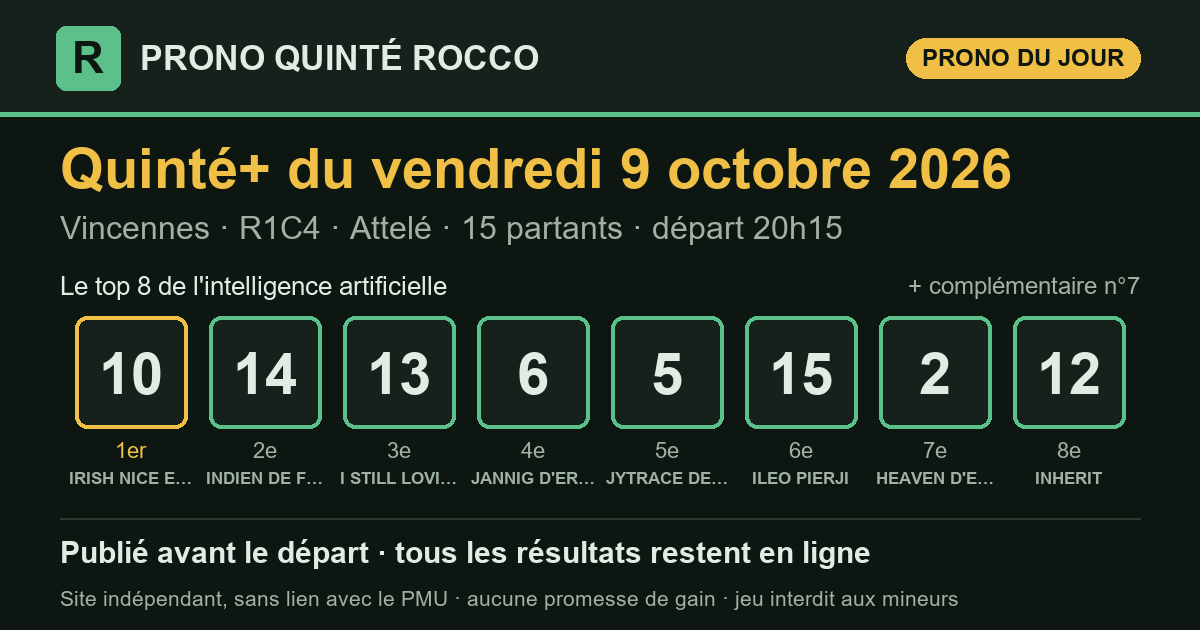
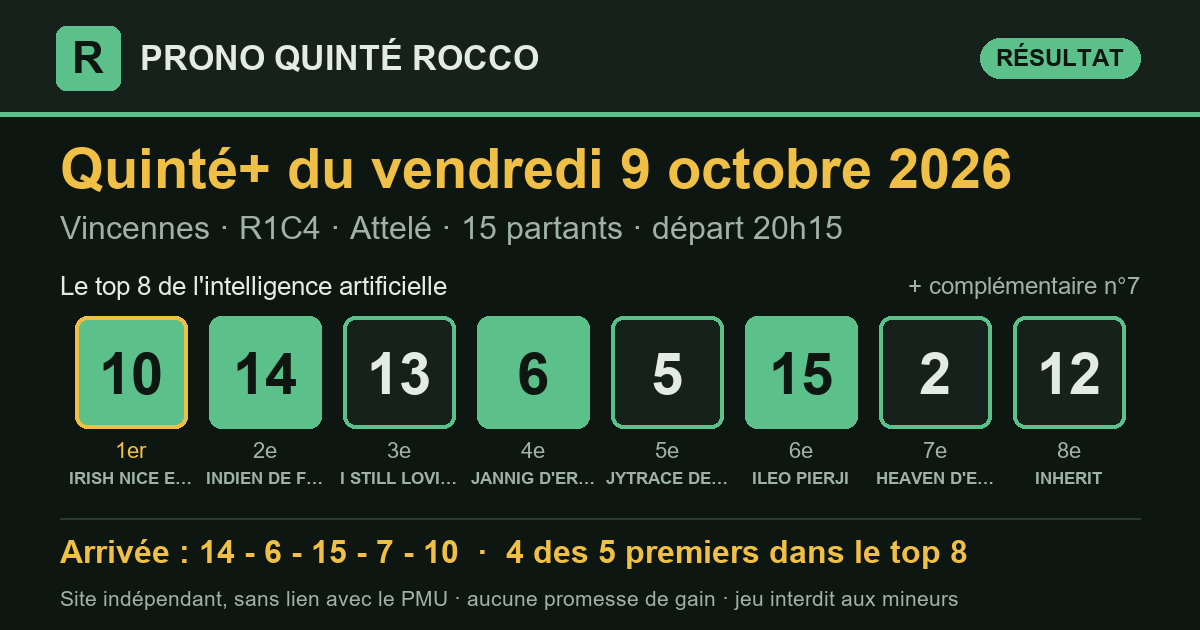
Prono Quinté+ 2026-10-09 Vincennes R1C4 — publié le 09/10/2026 20:30 (heure de Paris)

diff --git a/index.html b/index.html
@@ -13,7 +13,7 @@
 <meta property="og:title" content="Pronostic Quinté+ du vendredi 9 octobre 2026 — Prono Quinté Rocco">
 <meta property="og:description" content="Le pronostic du Quinté+ par intelligence artificielle, publié avant le départ, avec tous les résultats et le rendement réel.">
 <meta property="og:url" content="https://roccogp971.github.io/prono-quinte-rocco/">
-<meta property="og:image" content="https://roccogp971.github.io/prono-quinte-rocco/partage/2026-10-09.png?v=b8dcbbd7">
+<meta property="og:image" content="https://roccogp971.github.io/prono-quinte-rocco/partage/2026-10-09.png?v=a6659198">
 <meta property="og:image:type" content="image/png">
 <meta property="og:image:width" content="1200">
 <meta property="og:image:height" content="630">
@@ -28,15 +28,15 @@
 </header>
 <main>
 <section class="une" aria-labelledby="t-jour">
-  <p class="surtitre">Quinté+ du jour</p>
+  <p class="surtitre">Dernier Quinté+</p>
   <h1 id="t-jour">Le prono du Quinté+, résultats compris</h1>
   <p class="chapo">Chaque matin, une intelligence artificielle classe les partants du
   Quinté+. Le classement est publié avant le départ, puis comparé à l'arrivée
   officielle. Tous les résultats restent en ligne, les bons comme les mauvais.</p>
   <article class="carte-course">
-  <div class="tete"><h2>Vendredi 9 octobre 2026</h2><span class="etat attente">arrivée en attente</span></div>
+  <div class="tete"><h2>Vendredi 9 octobre 2026</h2><span class="etat place">4 des 5 premiers dans le top 8</span></div>
   <p class="meta">Vincennes · <strong>R1C4</strong> · Attelé · 15 partants · lisibilité <span class="note" aria-label="note 3 sur 5"><i class="on"></i><i class="on"></i><i class="on"></i><i class=""></i><i class=""></i></span> 3/5</p>
-  <ol class="partants" aria-label="Classement du prono"><li><span class="rang">1<sup>er</sup></span><span class="tapis ">10</span><span class="nom">IRISH NICE ELGE</span></li><li><span class="rang">2<sup>e</sup></span><span class="tapis ">14</span><span class="nom">INDIEN DE FONTAINE</span></li><li><span class="rang">3<sup>e</sup></span><span class="tapis ">13</span><span class="nom">I STILL LOVING YOU</span></li><li><span class="rang">4<sup>e</sup></span><span class="tapis ">6</span><span class="nom">JANNIG D&#x27;EREVAN</span></li><li><span class="rang">5<sup>e</sup></span><span class="tapis ">5</span><span class="nom">JYTRACE DE HOUELLE</span></li><li><span class="rang">6<sup>e</sup></span><span class="tapis ">15</span><span class="nom">ILEO PIERJI</span></li><li><span class="rang">7<sup>e</sup></span><span class="tapis ">2</span><span class="nom">HEAVEN D&#x27;ECAJEUL</span></li><li><span class="rang">8<sup>e</sup></span><span class="tapis ">12</span><span class="nom">INHERIT</span></li><li><span class="rang">compl.</span><span class="tapis creux">7</span><span class="nom">IZIJAL</span></li></ol>
+  <ol class="partants" aria-label="Classement du prono"><li><span class="rang">1<sup>er</sup></span><span class="tapis plein">10</span><span class="nom">IRISH NICE ELGE</span></li><li><span class="rang">2<sup>e</sup></span><span class="tapis plein">14</span><span class="nom">INDIEN DE FONTAINE</span></li><li><span class="rang">3<sup>e</sup></span><span class="tapis ">13</span><span class="nom">I STILL LOVING YOU</span></li><li><span class="rang">4<sup>e</sup></span><span class="tapis plein">6</span><span class="nom">JANNIG D&#x27;EREVAN</span></li><li><span class="rang">5<sup>e</sup></span><span class="tapis ">5</span><span class="nom">JYTRACE DE HOUELLE</span></li><li><span class="rang">6<sup>e</sup></span><span class="tapis plein">15</span><span class="nom">ILEO PIERJI</span></li><li><span class="rang">7<sup>e</sup></span><span class="tapis ">2</span><span class="nom">HEAVEN D&#x27;ECAJEUL</span></li><li><span class="rang">8<sup>e</sup></span><span class="tapis ">12</span><span class="nom">INHERIT</span></li><li><span class="rang">compl.</span><span class="tapis creux plein">7</span><span class="nom">IZIJAL</span></li></ol>
   <div class="pied-carte"><span>Analysé le 09/10 à 10:56 · en ligne le 09/10 à 10:59 · départ à 20:15 (heure de Paris)</span><span><a href="quinte/2026-10-09.html">Détail de la course</a></span></div>
 </article>
   <div class="legende"><span><span class="tapis plein petit">4</span> numéro dans les 5 premiers</span>
@@ -53,7 +53,7 @@
 </section>
 <section class="bilan" aria-labelledby="t-bilan">
   <h2 id="t-bilan">Le bilan depuis le 8 septembre 2026</h2>
-  <div class="tableau chiffres"><div class="case"><span class="gros ">75 %</span><span class="lib">des arrivants trouvés dans le top 8</span><span class="ref">un top 8 tiré au hasard : 52 %</span></div><div class="case"><span class="gros ">87 %</span><span class="lib">des gagnants présents dans le top 8</span><span class="ref"></span></div><div class="case"><span class="gros ">57 %</span><span class="lib">1er du prono placé</span><span class="ref">sur 30 Quintés</span></div><div class="case"><span class="gros ">1,03 €</span><span class="lib">rendus pour 1 € joué placé sur le 1er</span><span class="ref">rapports officiels PMU</span></div><div class="case"><span class="gros perte">0,46 €</span><span class="lib">rendus pour 1 € joué en Quinté+ combiné top 8</span><span class="ref">56 combinaisons, rapports PMU.fr, sur 30 Quintés</span></div></div>
+  <div class="tableau chiffres"><div class="case"><span class="gros ">75 %</span><span class="lib">des arrivants trouvés dans le top 8</span><span class="ref">un top 8 tiré au hasard : 52 %</span></div><div class="case"><span class="gros ">87 %</span><span class="lib">des gagnants présents dans le top 8</span><span class="ref"></span></div><div class="case"><span class="gros ">57 %</span><span class="lib">1er du prono placé</span><span class="ref">sur 30 Quintés</span></div><div class="case"><span class="gros ">1,03 €</span><span class="lib">rendus pour 1 € joué placé sur le 1er</span><span class="ref">rapports officiels PMU</span></div><div class="case"><span class="gros perte">0,45 €</span><span class="lib">rendus pour 1 € joué en Quinté+ combiné top 8</span><span class="ref">56 combinaisons, rapports PMU.fr, sur 31 Quintés</span></div></div>
   <p class="avertissement">Moins de 1 € rendu pour 1 € joué : suivre ce prono à la lettre fait <strong>perdre de l'argent</strong> sur cette période. Il sert à analyser une course, pas à promettre un gain.</p>
 </section>
 </main>

diff --git a/partants.html b/partants.html
@@ -29,67 +29,67 @@
     <p class="fiche-date">Vendredi 9 octobre 2026</p>
     <div class="fiche-rc"><span class="pastille" title="Réunion 1">R1</span><span class="pastille" title="Course 4">C4</span><span class="fiche-nom">Prix Hera</span></div>
     <p class="meta">Vincennes · Trot_attele · 2 850 m · 15 partants</p>
-    <p class="fiche-depart">Départ <b>20:15</b> <span>heure de Paris</span></p>
+    <p class="fiche-depart">Départ <b>20:17</b> <span>heure de Paris</span></p>
   </div>
   <p class="surtitre">Les pronostics ailleurs sur le web</p>
-  <div class="liens"><a class="lien-ext" href="https://www.turfoo.fr/programmes-courses/261009/reunion1-vincennes/course4-prix-hera/pronostics-presse/" rel="noopener" target="_blank"><b>Les pronostics de la presse →</b><span>sur Turfoo (site extérieur)</span></a><a class="lien-ext" href="https://www.geny.com/programme/2026-10-09" rel="noopener" target="_blank"><b>Partants et pronostics →</b><span>programme du jour sur Geny (site extérieur)</span></a></div>
+  <div class="liens"><a class="lien-ext" href="https://www.turfoo.fr/programmes-courses/261009/" rel="noopener" target="_blank"><b>Les pronostics de la presse →</b><span>sur Turfoo (site extérieur)</span></a><a class="lien-ext" href="https://www.geny.com/programme/2026-10-09" rel="noopener" target="_blank"><b>Partants et pronostics →</b><span>programme du jour sur Geny (site extérieur)</span></a></div>
   <div class="liste-boite"><table class="liste-partants">
     <thead><tr><th>N°</th><th>Cheval</th><th class="cote"><span class="long">Cote du matin</span><span class="court">Cote</span></th>
     <th class="ia"><span class="long">Prono IA</span><span class="court">IA</span></th></tr></thead>
     <tbody><tr>
   <td><span class="tapis petit">1</span></td>
   <td><span class="cheval">IGLOO DE BEAULIEU</span><span class="sous">J. CONDETTE · J. CONDETTE</span></td>
-  <td class="cote num">74,0</td>
+  <td class="cote num">105,0</td>
   <td class="ia">—</td>
 </tr><tr>
   <td><span class="tapis petit">2</span></td>
   <td><span class="cheval">HEAVEN D&#x27;ECAJEUL</span><span class="sous">G. GELORMINI · J.L. DERSOIR</span></td>
-  <td class="cote num">12,0</td>
+  <td class="cote num">14,0</td>
   <td class="ia"><span class="etat place">7<sup>e</sup></span></td>
 </tr><tr>
   <td><span class="tapis petit">3</span></td>
   <td><span class="cheval">HORACIO DE CERISY</span><span class="sous">A. GENDROT · P. PICOT</span></td>
-  <td class="cote num">52,0</td>
+  <td class="cote num">68,0</td>
   <td class="ia">—</td>
 </tr><tr>
   <td><span class="tapis petit">4</span></td>
   <td><span class="cheval">HISTORY MAJYC</span><span class="sous">F. TABESSE · F. TABESSE</span></td>
-  <td class="cote num">83,0</td>
+  <td class="cote num">96,0</td>
   <td class="ia">—</td>
 </tr><tr>
   <td><span class="tapis petit">5</span></td>
   <td><span class="cheval">JYTRACE DE HOUELLE</span><span class="sous">M. MOTTIER · K. LEBLANC</span></td>
-  <td class="cote num">8,5</td>
+  <td class="cote num">7,4</td>
   <td class="ia"><span class="etat place">5<sup>e</sup></span></td>
 </tr><tr>
   <td><span class="tapis petit">6</span></td>
   <td><span class="cheval">JANNIG D&#x27;EREVAN</span><span class="sous">D. BONNE · Antoine TRIHOLLET</span></td>
-  <td class="cote num">9,8</td>
+  <td class="cote num">9,1</td>
   <td class="ia"><span class="etat place">4<sup>e</sup></span></td>
 </tr><tr>
   <td><span class="tapis petit">7</span></td>
   <td><span class="cheval">IZIJAL</span><span class="sous">D. THOMAIN · Sté. Ent. Benoît BARASSIN</span></td>
-  <td class="cote num">19,0</td>
+  <td class="cote num">21,0</td>
   <td class="ia"><span class="etat place">compl.</span></td>
 </tr><tr>
   <td><span class="tapis petit">8</span></td>
   <td><span class="cheval">HORIZON DU THAY</span><span class="sous">N.R. BROSSARD · A. BARRE</span></td>
-  <td class="cote num">33,0</td>
+  <td class="cote num">34,0</td>
   <td class="ia">—</td>
 </tr><tr>
   <td><span class="tapis petit">9</span></td>
   <td><span class="cheval">INEDIT DU PAVILLON</span><span class="sous">F. LAGADEUC · Y. HALLAIS</span></td>
-  <td class="cote num">34,0</td>
+  <td class="cote num">40,0</td>
   <td class="ia">—</td>
 </tr><tr>
   <td><span class="tapis petit">10</span></td>
   <td><span class="cheval">IRISH NICE ELGE</span><span class="sous">M. ABRIVARD · Lucka STAEL</span></td>
-  <td class="cote num">4,3</td>
+  <td class="cote num">4,4</td>
   <td class="ia"><span class="etat place">1<sup>er</sup></span></td>
 </tr><tr>
   <td><span class="tapis petit">11</span></td>
   <td><span class="cheval">HOVE PONT VAUTIER</span><span class="sous">A. MERIEL · L. FERRO</span></td>
-  <td class="cote num">85,0</td>
+  <td class="cote num">100,0</td>
   <td class="ia">—</td>
 </tr><tr>
   <td><span class="tapis petit">12</span></td>
@@ -99,22 +99,22 @@
 </tr><tr>
   <td><span class="tapis petit">13</span></td>
   <td><span class="cheval">I STILL LOVING YOU</span><span class="sous">A. ABRIVARD · Sté. Ent. Benoît BARASSIN</span></td>
-  <td class="cote num">6,0</td>
+  <td class="cote num">5,6</td>
   <td class="ia"><span class="etat place">3<sup>e</sup></span></td>
 </tr><tr>
   <td><span class="tapis petit">14</span></td>
   <td><span class="cheval">INDIEN DE FONTAINE</span><span class="sous">E. RAFFIN · P. DANET</span></td>
-  <td class="cote num">6,8</td>
+  <td class="cote num">7,1</td>
   <td class="ia"><span class="etat place">2<sup>e</sup></span></td>
 </tr><tr>
   <td><span class="tapis petit">15</span></td>
   <td><span class="cheval">ILEO PIERJI</span><span class="sous">A. BARRIER · CH.A. MARY</span></td>
-  <td class="cote num">10,0</td>
+  <td class="cote num">9,5</td>
   <td class="ia"><span class="etat place">6<sup>e</sup></span></td>
 </tr></tbody>
   </table></div>
   <p class="meta">Le rang du prono IA est celui publié sur ce site. Sous chaque cheval : driver · entraîneur. Partants et cotes : programme
-  officiel du PMU, lu le 09/10 à 10:59 (heure de Paris). NP = non-partant.</p>
+  officiel du PMU, lu le 09/10 à 20:30 (heure de Paris). NP = non-partant.</p>
 </section>
 </main>
 <footer class="pied">

diff --git a/quinte/2026-10-09.html b/quinte/2026-10-09.html
@@ -13,7 +13,7 @@
 <meta property="og:title" content="Pronostic Quinté+ du vendredi 9 octobre 2026 à Vincennes — Prono Quinté Rocco">
 <meta property="og:description" content="Prono Quinté+ du vendredi 9 octobre 2026 (Vincennes) : top 8, arrivée officielle et rapports PMU.fr.">
 <meta property="og:url" content="https://roccogp971.github.io/prono-quinte-rocco/quinte/2026-10-09.html">
-<meta property="og:image" content="https://roccogp971.github.io/prono-quinte-rocco/partage/2026-10-09.png?v=b8dcbbd7">
+<meta property="og:image" content="https://roccogp971.github.io/prono-quinte-rocco/partage/2026-10-09.png?v=a6659198">
 <meta property="og:image:type" content="image/png">
 <meta property="og:image:width" content="1200">
 <meta property="og:image:height" content="630">
@@ -32,11 +32,19 @@
   <h1>Pronostic Quinté+ du vendredi 9 octobre 2026</h1>
   <p class="chapo">Vincennes · R1C4 · Attelé · 15 partants</p>
   <article class="carte-course">
-  <div class="tete"><h2>Le prono : top 8 et complémentaire</h2><span class="etat attente">arrivée en attente</span></div>
+  <div class="tete"><h2>Le prono : top 8 et complémentaire</h2><span class="etat place">4 des 5 premiers dans le top 8</span></div>
   <p class="meta">Vincennes · <strong>R1C4</strong> · Attelé · 15 partants · lisibilité <span class="note" aria-label="note 3 sur 5"><i class="on"></i><i class="on"></i><i class="on"></i><i class=""></i><i class=""></i></span> 3/5</p>
-  <ol class="partants" aria-label="Classement du prono"><li><span class="rang">1<sup>er</sup></span><span class="tapis ">10</span><span class="nom">IRISH NICE ELGE</span></li><li><span class="rang">2<sup>e</sup></span><span class="tapis ">14</span><span class="nom">INDIEN DE FONTAINE</span></li><li><span class="rang">3<sup>e</sup></span><span class="tapis ">13</span><span class="nom">I STILL LOVING YOU</span></li><li><span class="rang">4<sup>e</sup></span><span class="tapis ">6</span><span class="nom">JANNIG D&#x27;EREVAN</span></li><li><span class="rang">5<sup>e</sup></span><span class="tapis ">5</span><span class="nom">JYTRACE DE HOUELLE</span></li><li><span class="rang">6<sup>e</sup></span><span class="tapis ">15</span><span class="nom">ILEO PIERJI</span></li><li><span class="rang">7<sup>e</sup></span><span class="tapis ">2</span><span class="nom">HEAVEN D&#x27;ECAJEUL</span></li><li><span class="rang">8<sup>e</sup></span><span class="tapis ">12</span><span class="nom">INHERIT</span></li><li><span class="rang">compl.</span><span class="tapis creux">7</span><span class="nom">IZIJAL</span></li></ol>
+  <ol class="partants" aria-label="Classement du prono"><li><span class="rang">1<sup>er</sup></span><span class="tapis plein">10</span><span class="nom">IRISH NICE ELGE</span></li><li><span class="rang">2<sup>e</sup></span><span class="tapis plein">14</span><span class="nom">INDIEN DE FONTAINE</span></li><li><span class="rang">3<sup>e</sup></span><span class="tapis ">13</span><span class="nom">I STILL LOVING YOU</span></li><li><span class="rang">4<sup>e</sup></span><span class="tapis plein">6</span><span class="nom">JANNIG D&#x27;EREVAN</span></li><li><span class="rang">5<sup>e</sup></span><span class="tapis ">5</span><span class="nom">JYTRACE DE HOUELLE</span></li><li><span class="rang">6<sup>e</sup></span><span class="tapis plein">15</span><span class="nom">ILEO PIERJI</span></li><li><span class="rang">7<sup>e</sup></span><span class="tapis ">2</span><span class="nom">HEAVEN D&#x27;ECAJEUL</span></li><li><span class="rang">8<sup>e</sup></span><span class="tapis ">12</span><span class="nom">INHERIT</span></li><li><span class="rang">compl.</span><span class="tapis creux plein">7</span><span class="nom">IZIJAL</span></li></ol>
   <div class="pied-carte"><span>Analysé le 09/10 à 10:56 · en ligne le 09/10 à 10:59 · départ à 20:15 (heure de Paris)</span><span></span></div>
 </article>
+<section class="carte-course" aria-labelledby="t-arr">
+  <div class="tete"><h2 id="t-arr">Arrivée officielle</h2></div>
+  <div class="rangee"><span class="tapis plein" title="1er">14</span><span class="tapis plein" title="2e">6</span><span class="tapis plein" title="3e">15</span><span class="tapis creux" title="4e">7</span><span class="tapis plein" title="5e">10</span></div>
+  <div class="deux">
+    <div><h3>Ce qu'aurait rendu le prono</h3><dl class="kv"><dt>1 € placé sur le 1er (n°10)</dt><dd>rapport manquant</dd><dt>1 € gagnant sur le 1er</dt><dd>rapport manquant</dd><dt>Quinté+ combiné top 8 (mise 112 €)</dt><dd>38,40 €</dd><dt>dont</dt><dd>Bonus 4sur5 × 4, Bonus 3 × 6</dd></dl></div>
+    <div><h3>Rapports officiels</h3><dl class="kv"><dt>e-Quinté+ Ordre (2 €)</dt><dd>12 745,80 €</dd><dt>e-Quinté+ Désordre (2 €)</dt><dd>106,20 €</dd><dt>e-Bonus 4sur5 (2 €)</dt><dd>4,20 €</dd><dt>e-Bonus 3 (2 €)</dt><dd>3,60 €</dd></dl></div>
+  </div>
+</section>
 </section>
 </main>
 <footer class="pied">

diff --git a/resultats.html b/resultats.html
@@ -36,8 +36,8 @@
     <tbody><tr>
   <td class="c-date"><a href="quinte/2026-10-09.html">09/10</a></td>
   <td class="c-course">Vincennes<br><span class="meta">R1C4 · Attelé</span></td>
-  <td data-label="Top 8 du prono"><div class="rangee"><span class="tapis petit">10</span><span class="tapis petit">14</span><span class="tapis petit">13</span><span class="tapis petit">6</span><span class="tapis petit">5</span><span class="tapis petit">15</span><span class="tapis petit">2</span><span class="tapis petit">12</span></div></td><td data-label="Arrivée"><span class="etat attente">en attente</span></td>
-  <td class="num" data-label="Trouvés">—</td><td data-label="1er du prono"><span class="etat attente">—</span></td><td class="mont" data-label="Quinté+ top 8 (mise 112 €)">—</td>
+  <td data-label="Top 8 du prono"><div class="rangee"><span class="tapis plein petit">10</span><span class="tapis plein petit">14</span><span class="tapis petit">13</span><span class="tapis plein petit">6</span><span class="tapis petit">5</span><span class="tapis plein petit">15</span><span class="tapis petit">2</span><span class="tapis petit">12</span></div></td><td data-label="Arrivée"><div class="rangee"><span class="tapis plein petit" title="1er">14</span><span class="tapis plein petit" title="2e">6</span><span class="tapis plein petit" title="3e">15</span><span class="tapis creux petit" title="4e">7</span><span class="tapis plein petit" title="5e">10</span></div></td>
+  <td class="num" data-label="Trouvés">4/5</td><td data-label="1er du prono"><span class="etat non">non placé</span></td><td class="mont perte" data-label="Quinté+ top 8 (mise 112 €)">38,40 €</td>
 </tr><tr>
   <td class="c-date"><a href="quinte/2026-10-08.html">08/10</a></td>
   <td class="c-course">Saint-Cloud<br><span class="meta">R1C1 · Plat</span></td>
@@ -193,7 +193,7 @@
 </section>
 <section class="bilan" aria-labelledby="t-bilan">
   <h2 id="t-bilan">Le bilan depuis le 8 septembre 2026</h2>
-  <div class="tableau chiffres"><div class="case"><span class="gros ">75 %</span><span class="lib">des arrivants trouvés dans le top 8</span><span class="ref">un top 8 tiré au hasard : 52 %</span></div><div class="case"><span class="gros ">87 %</span><span class="lib">des gagnants présents dans le top 8</span><span class="ref"></span></div><div class="case"><span class="gros ">57 %</span><span class="lib">1er du prono placé</span><span class="ref">sur 30 Quintés</span></div><div class="case"><span class="gros ">1,03 €</span><span class="lib">rendus pour 1 € joué placé sur le 1er</span><span class="ref">rapports officiels PMU</span></div><div class="case"><span class="gros perte">0,46 €</span><span class="lib">rendus pour 1 € joué en Quinté+ combiné top 8</span><span class="ref">56 combinaisons, rapports PMU.fr, sur 30 Quintés</span></div></div>
+  <div class="tableau chiffres"><div class="case"><span class="gros ">75 %</span><span class="lib">des arrivants trouvés dans le top 8</span><span class="ref">un top 8 tiré au hasard : 52 %</span></div><div class="case"><span class="gros ">87 %</span><span class="lib">des gagnants présents dans le top 8</span><span class="ref"></span></div><div class="case"><span class="gros ">57 %</span><span class="lib">1er du prono placé</span><span class="ref">sur 30 Quintés</span></div><div class="case"><span class="gros ">1,03 €</span><span class="lib">rendus pour 1 € joué placé sur le 1er</span><span class="ref">rapports officiels PMU</span></div><div class="case"><span class="gros perte">0,45 €</span><span class="lib">rendus pour 1 € joué en Quinté+ combiné top 8</span><span class="ref">56 combinaisons, rapports PMU.fr, sur 31 Quintés</span></div></div>
   <p class="avertissement">Moins de 1 € rendu pour 1 € joué : suivre ce prono à la lettre fait <strong>perdre de l'argent</strong> sur cette période. Il sert à analyser une course, pas à promettre un gain.</p>
 </section>
 </main>
